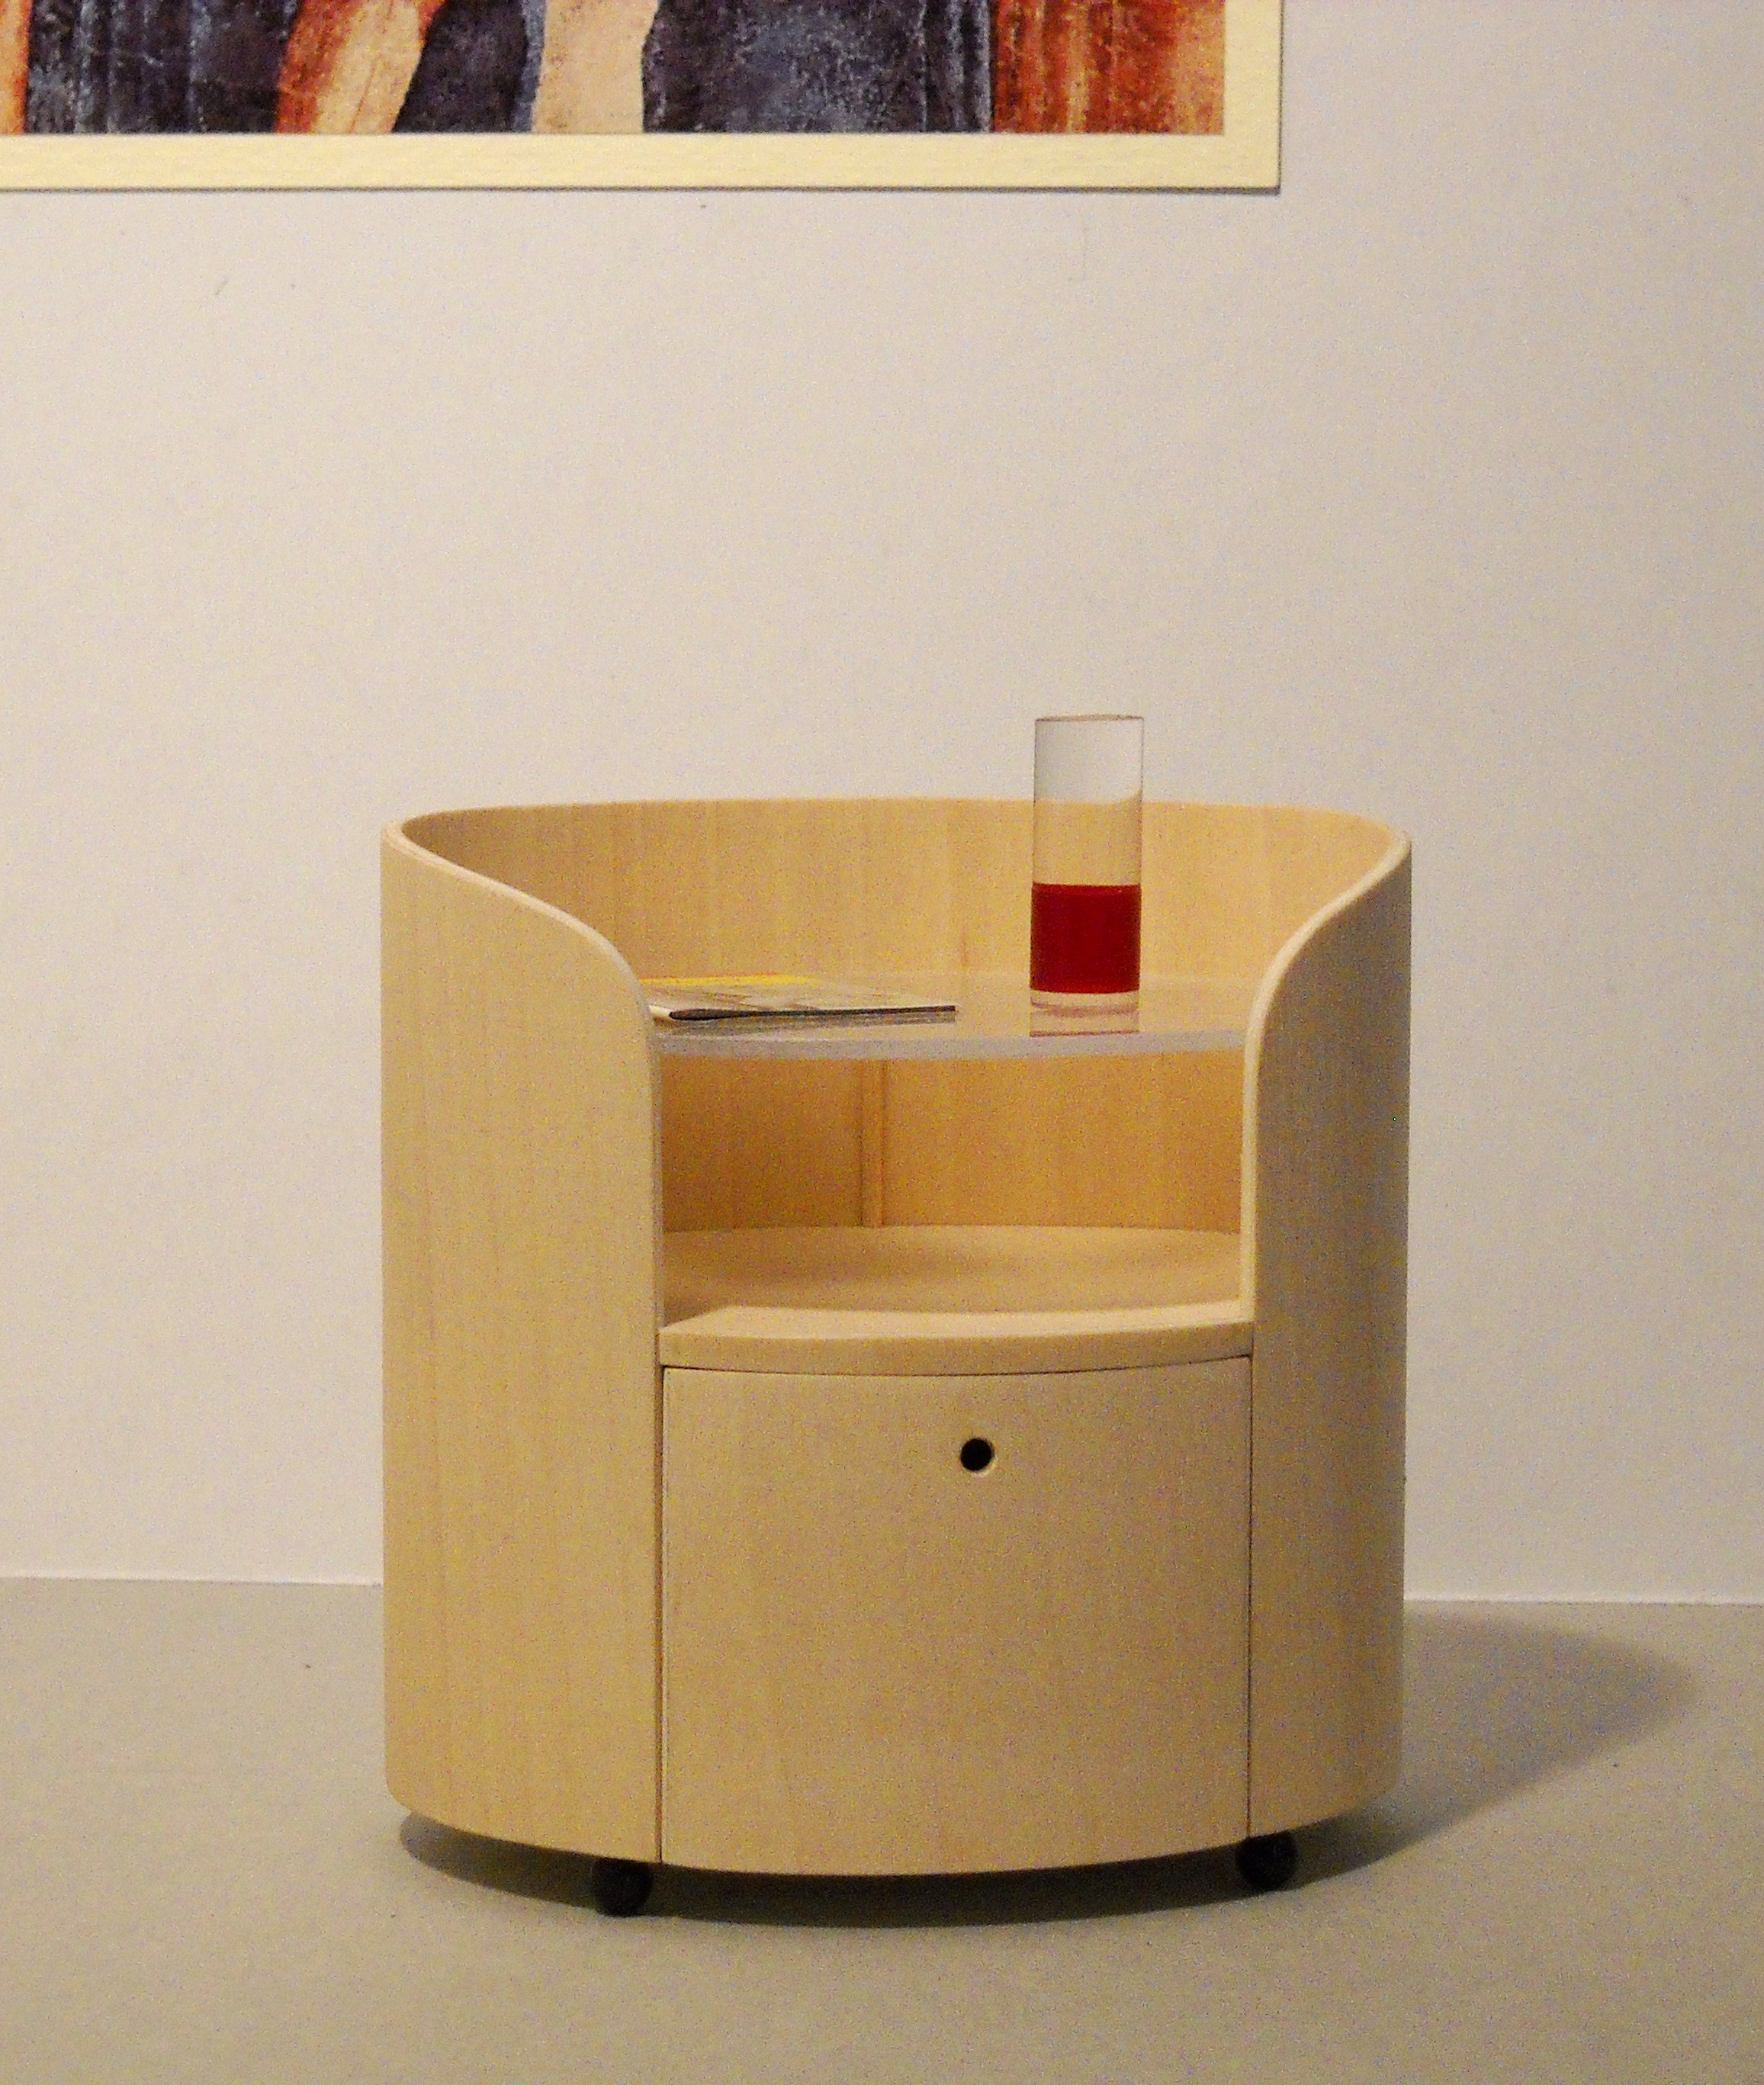
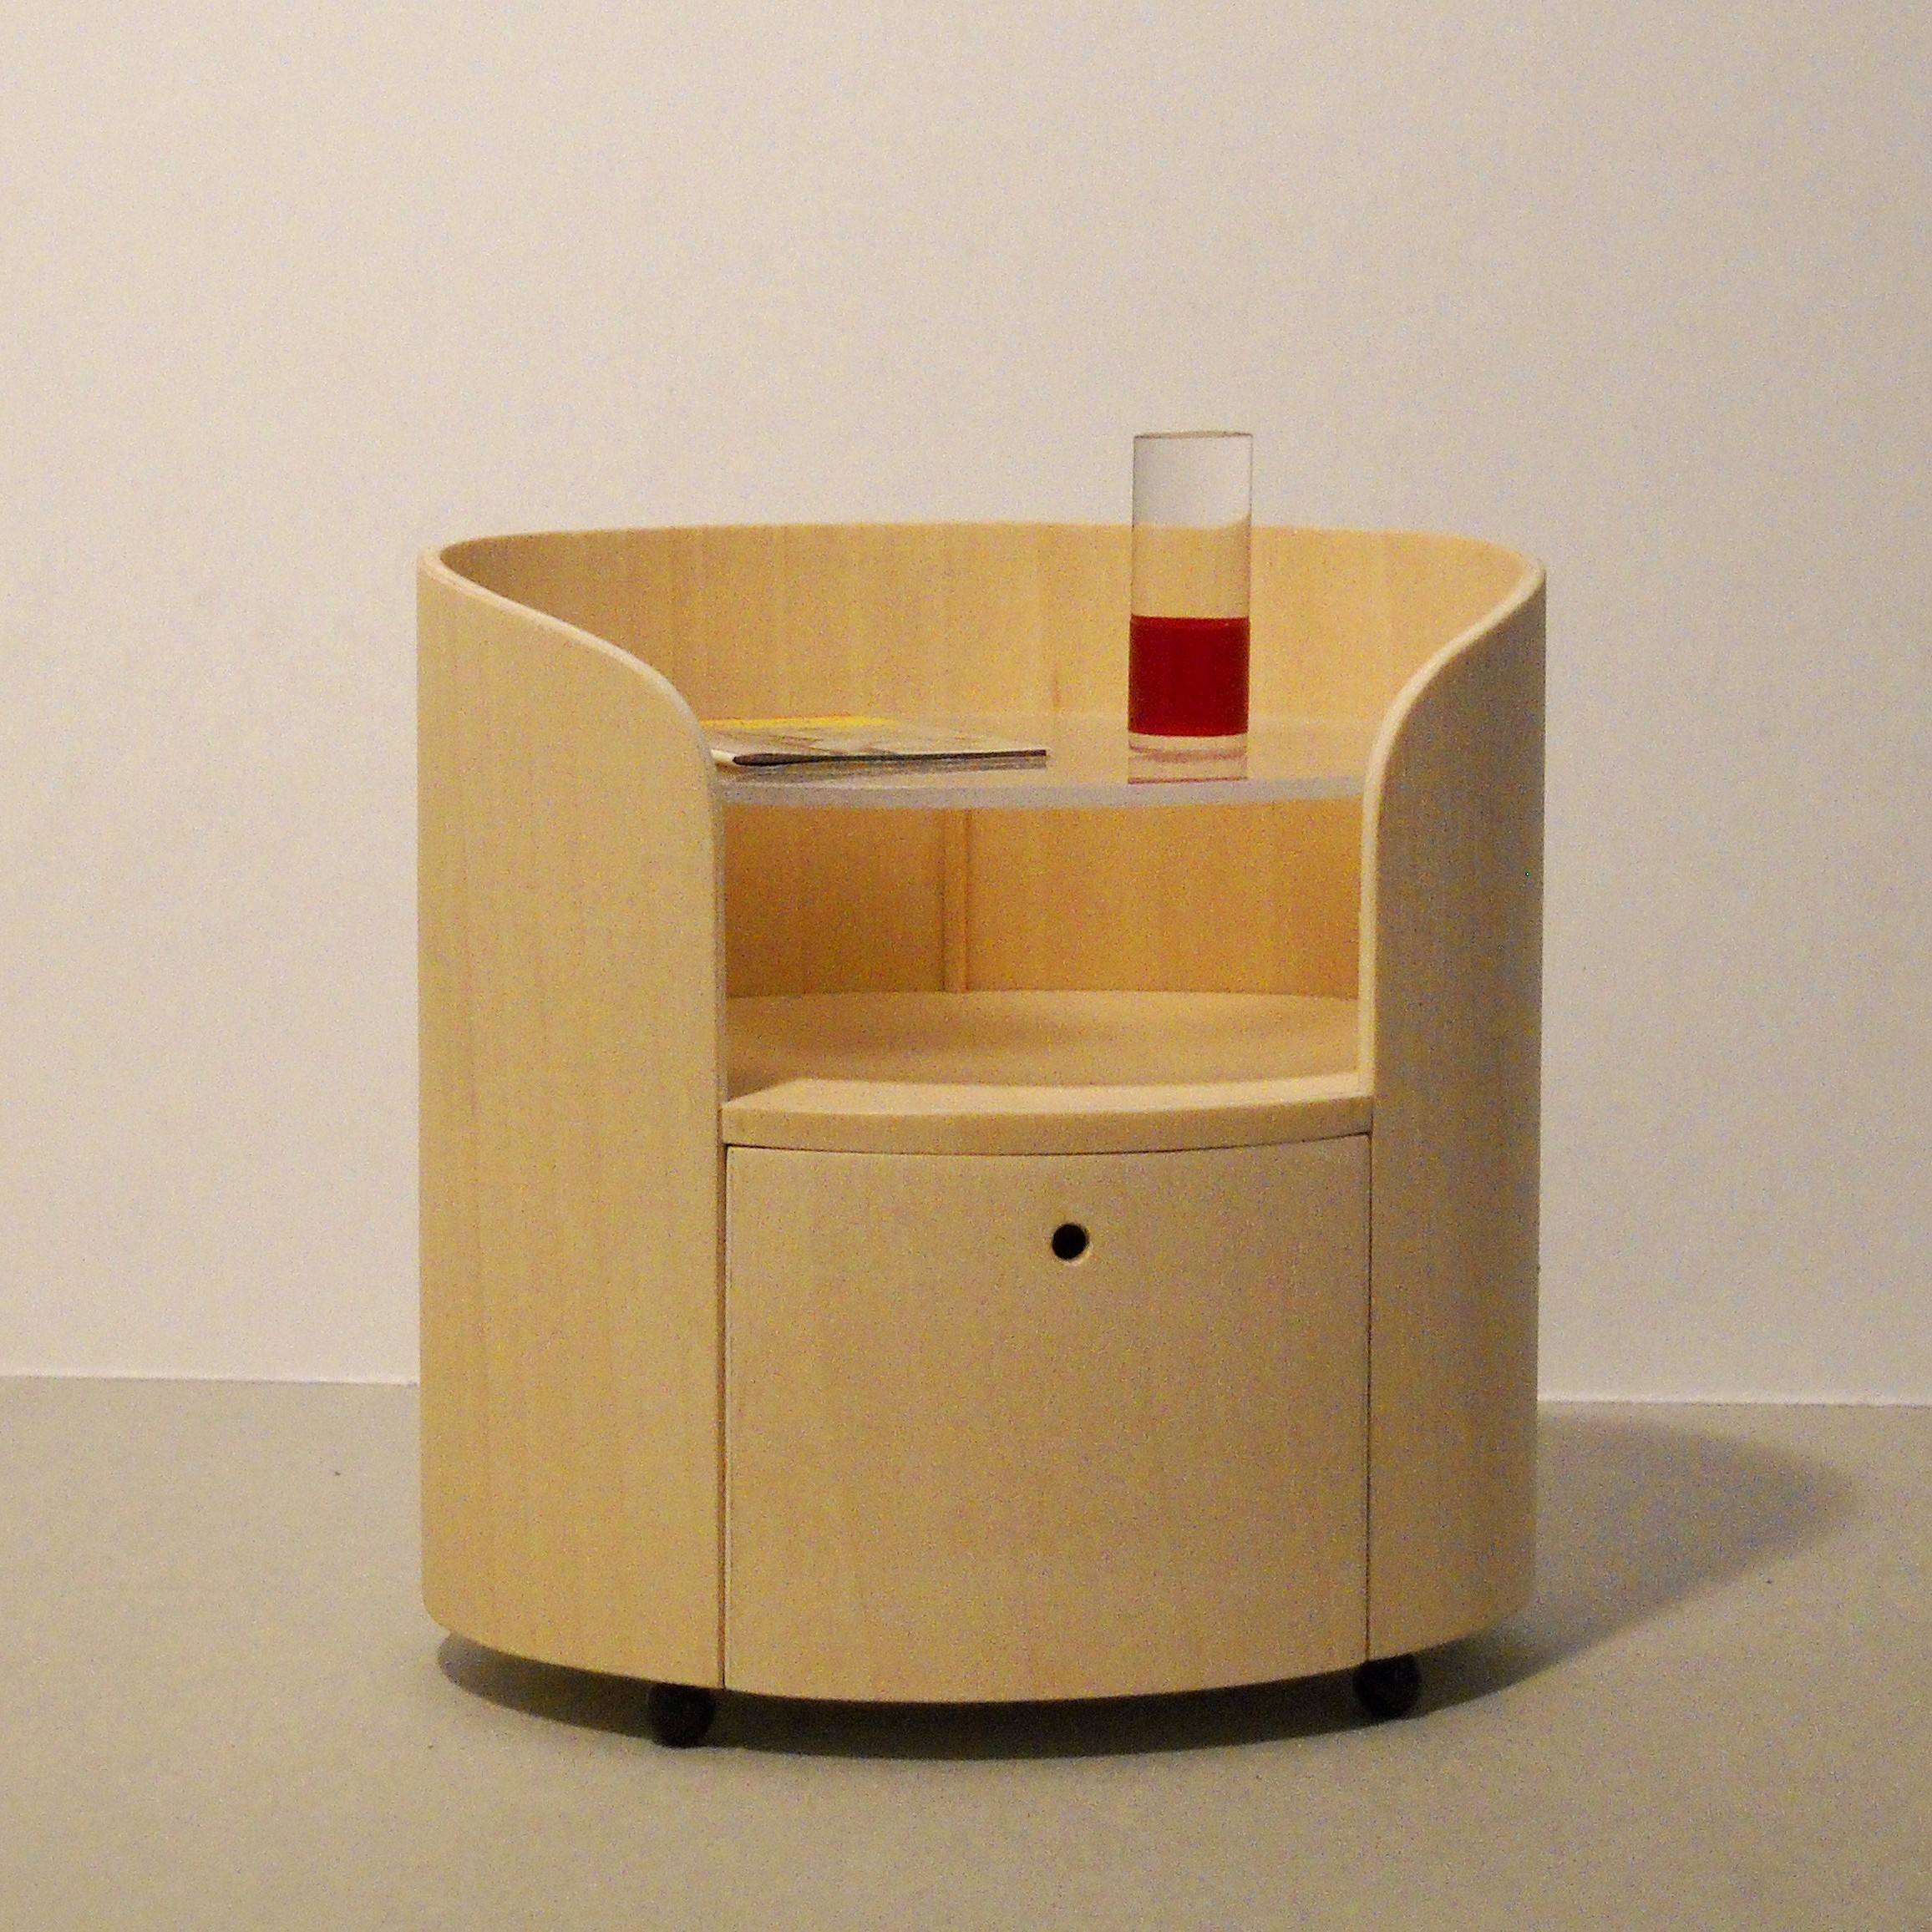
aggiunte maquettes e sculture

diff --git a/design.html b/design.html
@@ -740,12 +740,6 @@
         <div class="card-hover overflow-hidden rounded-lg bg-white shadow-md cursor-pointer aspect-square" @click="selected = { src: 'static/design/prototipi/maquette 12.JPG', title: '', year: '', medium: '', dim: '', desc: '', noContact: true }; imgIdx = 0">
           <img src="static/design/prototipi/maquette 12.JPG" alt="Maquette" class="w-full h-full object-contain hover:scale-105 transition-transform duration-500 p-2" />
         </div>
-        <div class="card-hover overflow-hidden rounded-lg bg-white shadow-md cursor-pointer aspect-square" @click="selected = { src: 'static/design/prototipi/maquette 13.JPG', title: '', year: '', medium: '', dim: '', desc: '', noContact: true }; imgIdx = 0">
-          <img src="static/design/prototipi/maquette 13.JPG" alt="Maquette" class="w-full h-full object-contain hover:scale-105 transition-transform duration-500 p-2" />
-        </div>
-        <div class="card-hover overflow-hidden rounded-lg bg-white shadow-md cursor-pointer aspect-square" @click="selected = { src: 'static/design/prototipi/maquette 14.JPG', title: '', year: '', medium: '', dim: '', desc: '', noContact: true }; imgIdx = 0">
-          <img src="static/design/prototipi/maquette 14.JPG" alt="Maquette" class="w-full h-full object-contain hover:scale-105 transition-transform duration-500 p-2" />
-        </div>
         <div class="card-hover overflow-hidden relative rounded-lg bg-white shadow-md cursor-pointer aspect-square"
              @click="imgIdx = 0; selected = { srcs: ['static/design/prototipi/prototipo 8 GAMBIT/mod. GAMBIT prototipo e maquette  2008.jpg', 'static/design/prototipi/prototipo 8 GAMBIT/mod, GAMBIT interno.jpg', 'static/design/prototipi/prototipo 8 GAMBIT/mod. GAMBIT dettaglio.JPG', 'static/design/prototipi/prototipo 8 GAMBIT/mod. GAMBIT apertura.mp4'], title: 'GAMBIT', year: '2008', medium: '', dim: '', desc: '', noContact: true }">
           <div class="absolute bottom-1.5 left-0 right-0 flex justify-center gap-1 pointer-events-none z-10">
@@ -797,14 +791,64 @@
             <span class="w-1.5 h-1.5 rounded-full bg-teal/30 block"></span>
           </div>
         </div>
+        <!-- PROTOTIPO TAV 11 + 12 -->
         <div class="card-hover overflow-hidden relative rounded-lg bg-white shadow-md cursor-pointer aspect-square"
              @click="imgIdx = 0; selected = { srcs: ['static/design/prototipi/prototipo 11 TAV.jpg', 'static/design/prototipi/prototipo 12 TAV.jpg'], title: '', year: '', medium: '', dim: '', desc: '', noContact: true }">
-          <img src="static/design/prototipi/prototipo 11 TAV.jpg" alt="Prototipo TAV" class="w-full h-full object-contain hover:scale-105 transition-transform duration-500 p-2" />
+          <img src="static/design/prototipi/prototipo 12 TAV.jpg" alt="Prototipo TAV" class="w-full h-full object-contain hover:scale-105 transition-transform duration-500 p-2" />
           <div class="absolute bottom-1.5 left-0 right-0 flex justify-center gap-1 pointer-events-none z-10">
             <span class="w-1.5 h-1.5 rounded-full bg-teal/60 block"></span>
             <span class="w-1.5 h-1.5 rounded-full bg-teal/30 block"></span>
             <span class="w-1.5 h-1.5 rounded-full bg-teal/30 block"></span>
           </div>
+        </div>
+
+        <!-- MAQUETTE 13 + 14 -->
+        <div class="card-hover overflow-hidden relative rounded-lg bg-white shadow-md cursor-pointer aspect-square"
+             @click="imgIdx = 0; selected = { srcs: ['static/design/prototipi/maquette 13.JPG', 'static/design/prototipi/maquette 14.JPG'], title: '', year: '', medium: '', dim: '', desc: '', noContact: true }">
+          <div class="flex h-full">
+            <div class="w-1/2 overflow-hidden p-1">
+              <img src="static/design/prototipi/maquette 13.JPG" alt="Maquette" class="w-full h-full object-contain hover:scale-105 transition-transform duration-500" />
+            </div>
+            <div class="w-1/2 overflow-hidden p-1">
+              <img src="static/design/prototipi/maquette 14.JPG" alt="Maquette" class="w-full h-full object-contain hover:scale-105 transition-transform duration-500" />
+            </div>
+          </div>
+          <div class="absolute bottom-1.5 left-0 right-0 flex justify-center gap-1 pointer-events-none z-10">
+            <span class="w-1.5 h-1.5 rounded-full bg-teal/60 block"></span>
+            <span class="w-1.5 h-1.5 rounded-full bg-teal/30 block"></span>
+            <span class="w-1.5 h-1.5 rounded-full bg-teal/30 block"></span>
+          </div>
+        </div>
+
+        <!-- MAQUETTE SEDIE: A.02 + A.04 -->
+        <div class="card-hover overflow-hidden relative rounded-lg bg-white shadow-md cursor-pointer aspect-square"
+             @click="imgIdx = 0; selected = { srcs: ['static/design/prototipi/maquette sedie A.02.JPG', 'static/design/prototipi/maquette sedie A.04.JPG'], title: '', year: '', medium: '', dim: '', desc: '', noContact: true }">
+          <img src="static/design/prototipi/maquette sedie A.02.JPG" alt="Maquette sedia" class="w-full h-full object-contain hover:scale-105 transition-transform duration-500 p-2" />
+          <div class="absolute bottom-1.5 left-0 right-0 flex justify-center gap-1 pointer-events-none z-10">
+            <span class="w-1.5 h-1.5 rounded-full bg-teal/60 block"></span>
+            <span class="w-1.5 h-1.5 rounded-full bg-teal/30 block"></span>
+            <span class="w-1.5 h-1.5 rounded-full bg-teal/30 block"></span>
+          </div>
+        </div>
+
+        <!-- MAQUETTE SEDIE: B.01 -->
+        <div class="card-hover overflow-hidden rounded-lg bg-white shadow-md cursor-pointer aspect-square" @click="selected = { src: 'static/design/prototipi/maquette sedie B.01.JPG', title: '', year: '', medium: '', dim: '', desc: '', noContact: true }; imgIdx = 0">
+          <img src="static/design/prototipi/maquette sedie B.01.JPG" alt="Maquette sedia" class="w-full h-full object-contain hover:scale-105 transition-transform duration-500 p-2" />
+        </div>
+
+        <!-- MAQUETTE SEDIE: D.04 -->
+        <div class="card-hover overflow-hidden rounded-lg bg-white shadow-md cursor-pointer aspect-square" @click="selected = { src: 'static/design/prototipi/maquette sedie D.04.JPG', title: '', year: '', medium: '', dim: '', desc: '', noContact: true }; imgIdx = 0">
+          <img src="static/design/prototipi/maquette sedie D.04.JPG" alt="Maquette sedia" class="w-full h-full object-contain hover:scale-105 transition-transform duration-500 p-2" />
+        </div>
+
+        <!-- MAQUETTE SEDIE: E.02 -->
+        <div class="card-hover overflow-hidden rounded-lg bg-white shadow-md cursor-pointer aspect-square" @click="selected = { src: 'static/design/prototipi/maquette sedie E.02.JPG', title: '', year: '', medium: '', dim: '', desc: '', noContact: true }; imgIdx = 0">
+          <img src="static/design/prototipi/maquette sedie E.02.JPG" alt="Maquette sedia" class="w-full h-full object-contain hover:scale-105 transition-transform duration-500 p-2" />
+        </div>
+
+        <!-- MAQUETTE SEDIE: SPIDER07 -->
+        <div class="card-hover overflow-hidden rounded-lg bg-white shadow-md cursor-pointer aspect-square" @click="selected = { src: 'static/design/prototipi/maquette sedie SPIDER07.JPG', title: '', year: '', medium: '', dim: '', desc: '', noContact: true }; imgIdx = 0">
+          <img src="static/design/prototipi/maquette sedie SPIDER07.JPG" alt="Maquette sedia SPIDER" class="w-full h-full object-contain hover:scale-105 transition-transform duration-500 p-2" />
         </div>
       </div>
     </div>

diff --git a/sculptures.html b/sculptures.html
@@ -341,6 +341,60 @@
             <p class="text-jet/40 font-serif text-sm mt-1">2018</p>
           </div>
         </div>
+
+        <div class="card-hover bg-white rounded-lg overflow-hidden shadow-md cursor-pointer"
+             @click="imgIdx = 0; selected = { srcs: ['static/sculture/bagnante 2014 legno di alloro incerato 1.jpeg', 'static/sculture/bagnante 2014 legno di alloro incerato 2.jpeg'], title: 'Bagnante', year: '2014', medium: 'Legno di alloro incerato', dim: '', desc: '' }">
+          <div class="aspect-[3/4] overflow-hidden relative bg-white">
+            <img src="static/sculture/bagnante 2014 legno di alloro incerato 1.jpeg" alt="Bagnante"
+                 class="w-full h-full object-contain hover:scale-105 transition-transform duration-500 p-2" />
+            <div class="absolute bottom-1.5 left-0 right-0 flex justify-center gap-1 pointer-events-none z-10">
+              <span class="w-1.5 h-1.5 rounded-full bg-teal/60 block"></span>
+              <span class="w-1.5 h-1.5 rounded-full bg-teal/30 block"></span>
+              <span class="w-1.5 h-1.5 rounded-full bg-teal/30 block"></span>
+            </div>
+          </div>
+          <div class="p-6">
+            <span class="text-teal text-xs font-medium tracking-widest uppercase">Legno di alloro incerato</span>
+            <h3 class="font-serif text-xl text-jet mt-1">Bagnante</h3>
+            <p class="text-jet/40 font-serif text-sm mt-1">2014</p>
+          </div>
+        </div>
+
+        <div class="card-hover bg-white rounded-lg overflow-hidden shadow-md cursor-pointer"
+             @click="imgIdx = 0; selected = { srcs: ['static/sculture/stop alle violenze di genere 2013 legno tinto 1.jpeg', 'static/sculture/stop alle violenze di genere 2013 legno tinto 2.jpeg'], title: 'Stop alle violenze di genere', year: '2013', medium: 'Legno tinto', dim: '', desc: '' }">
+          <div class="aspect-[3/4] overflow-hidden relative bg-white">
+            <img src="static/sculture/stop alle violenze di genere 2013 legno tinto 1.jpeg" alt="Stop alle violenze di genere"
+                 class="w-full h-full object-contain hover:scale-105 transition-transform duration-500 p-2" />
+            <div class="absolute bottom-1.5 left-0 right-0 flex justify-center gap-1 pointer-events-none z-10">
+              <span class="w-1.5 h-1.5 rounded-full bg-teal/60 block"></span>
+              <span class="w-1.5 h-1.5 rounded-full bg-teal/30 block"></span>
+              <span class="w-1.5 h-1.5 rounded-full bg-teal/30 block"></span>
+            </div>
+          </div>
+          <div class="p-6">
+            <span class="text-teal text-xs font-medium tracking-widest uppercase">Legno tinto</span>
+            <h3 class="font-serif text-xl text-jet mt-1">Stop alle violenze di genere</h3>
+            <p class="text-jet/40 font-serif text-sm mt-1">2013</p>
+          </div>
+        </div>
+
+        <div class="card-hover bg-white rounded-lg overflow-hidden shadow-md cursor-pointer"
+             @click="imgIdx = 0; selected = { srcs: ['static/sculture/l\'abbraccio 2013 legno tinto 1.jpeg', 'static/sculture/l\'abbraccio 2013 legno tinto 2.jpeg'], title: 'L\'abbraccio', year: '2013', medium: 'Legno tinto', dim: '', desc: '' }">
+          <div class="aspect-[3/4] overflow-hidden relative bg-white">
+            <img src="static/sculture/l'abbraccio 2013 legno tinto 1.jpeg" alt="L'abbraccio"
+                 class="w-full h-full object-contain hover:scale-105 transition-transform duration-500 p-2" />
+            <div class="absolute bottom-1.5 left-0 right-0 flex justify-center gap-1 pointer-events-none z-10">
+              <span class="w-1.5 h-1.5 rounded-full bg-teal/60 block"></span>
+              <span class="w-1.5 h-1.5 rounded-full bg-teal/30 block"></span>
+              <span class="w-1.5 h-1.5 rounded-full bg-teal/30 block"></span>
+            </div>
+          </div>
+          <div class="p-6">
+            <span class="text-teal text-xs font-medium tracking-widest uppercase">Legno tinto</span>
+            <h3 class="font-serif text-xl text-jet mt-1">L'abbraccio</h3>
+            <p class="text-jet/40 font-serif text-sm mt-1">2013</p>
+          </div>
+        </div>
       </div>
     </div>
   </section>